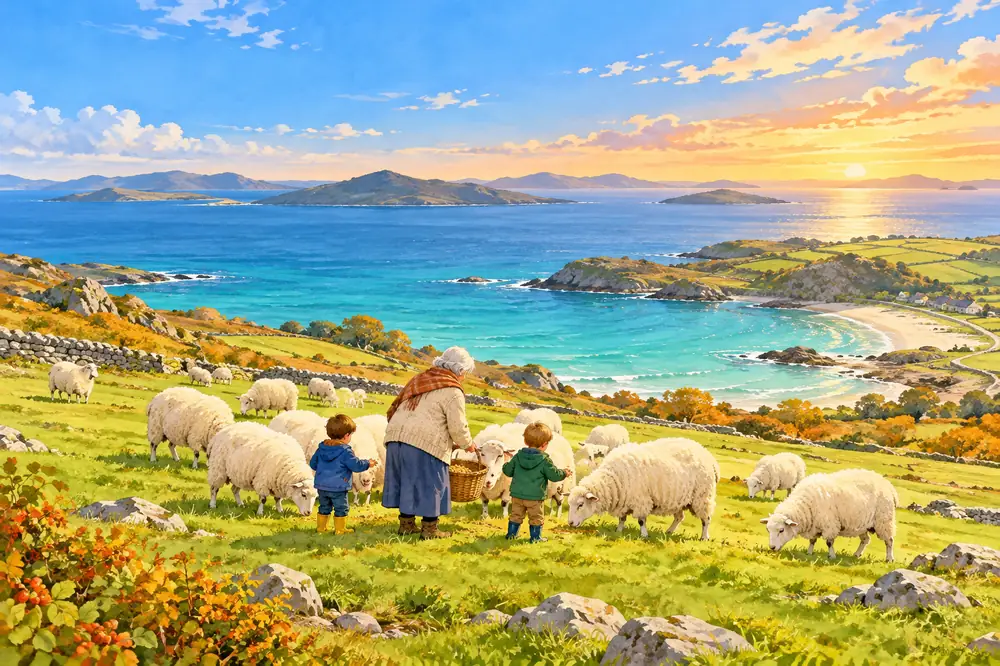
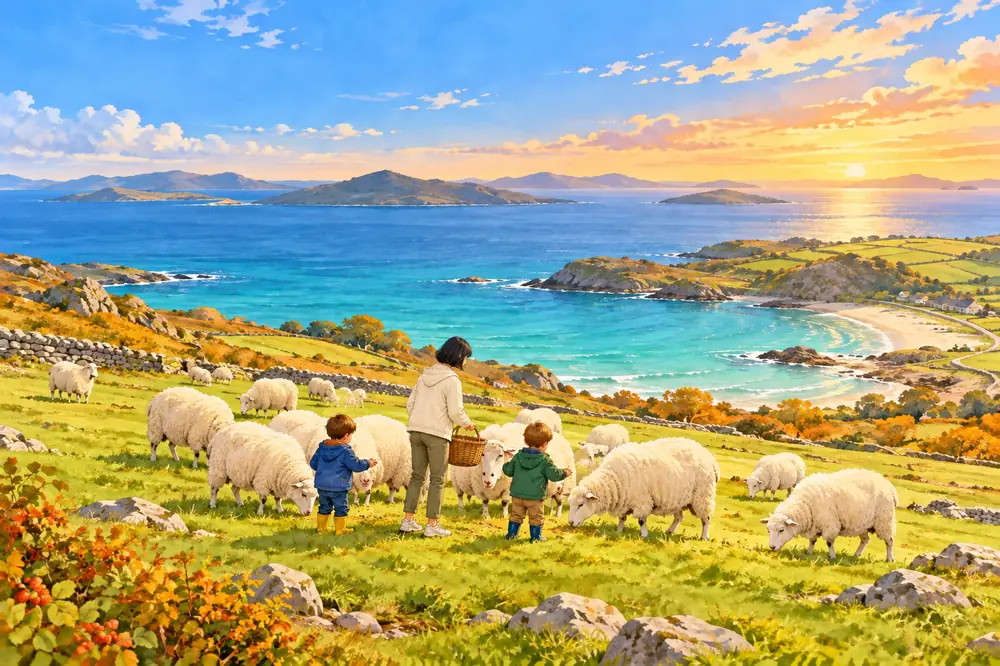
남해 여행 페이지: 양떼목장 삽화의 할머니를 검은 머리 60대로
Claude-Session: https://claude.ai/code/session_01GBAPx4zZgLfrimyvkt9r1i

diff --git a/p/namhae-2f5d7634f774/index.html b/p/namhae-2f5d7634f774/index.html
@@ -588,7 +588,7 @@
   <h3>동물과 체험</h3>
   <div class="cards">
     <div class="card">
-      <img class="illust" src="img/sheep.webp" alt="언덕 목장에서 양에게 먹이를 주는 아이들 삽화" loading="lazy">
+      <img class="illust" src="img/sheep.webp" alt="언덕 목장에서 양에게 먹이를 주는 두 남자아이와 할머니 삽화" loading="lazy">
       <h4>양모리학교 (남해 양떼목장)</h4>
       <div class="meta">09:00-18:00 · 대인 5,000원 · 5세 미만 무료</div>
       <p>양에게 먹이를 주는 목장입니다. 가족당 먹이 바구니 1개를 줍니다. 주말과 공휴일엔 양몰이 공연도 있습니다. 진입로가 좁고 가파르니 운전에 주의합니다.</p>
